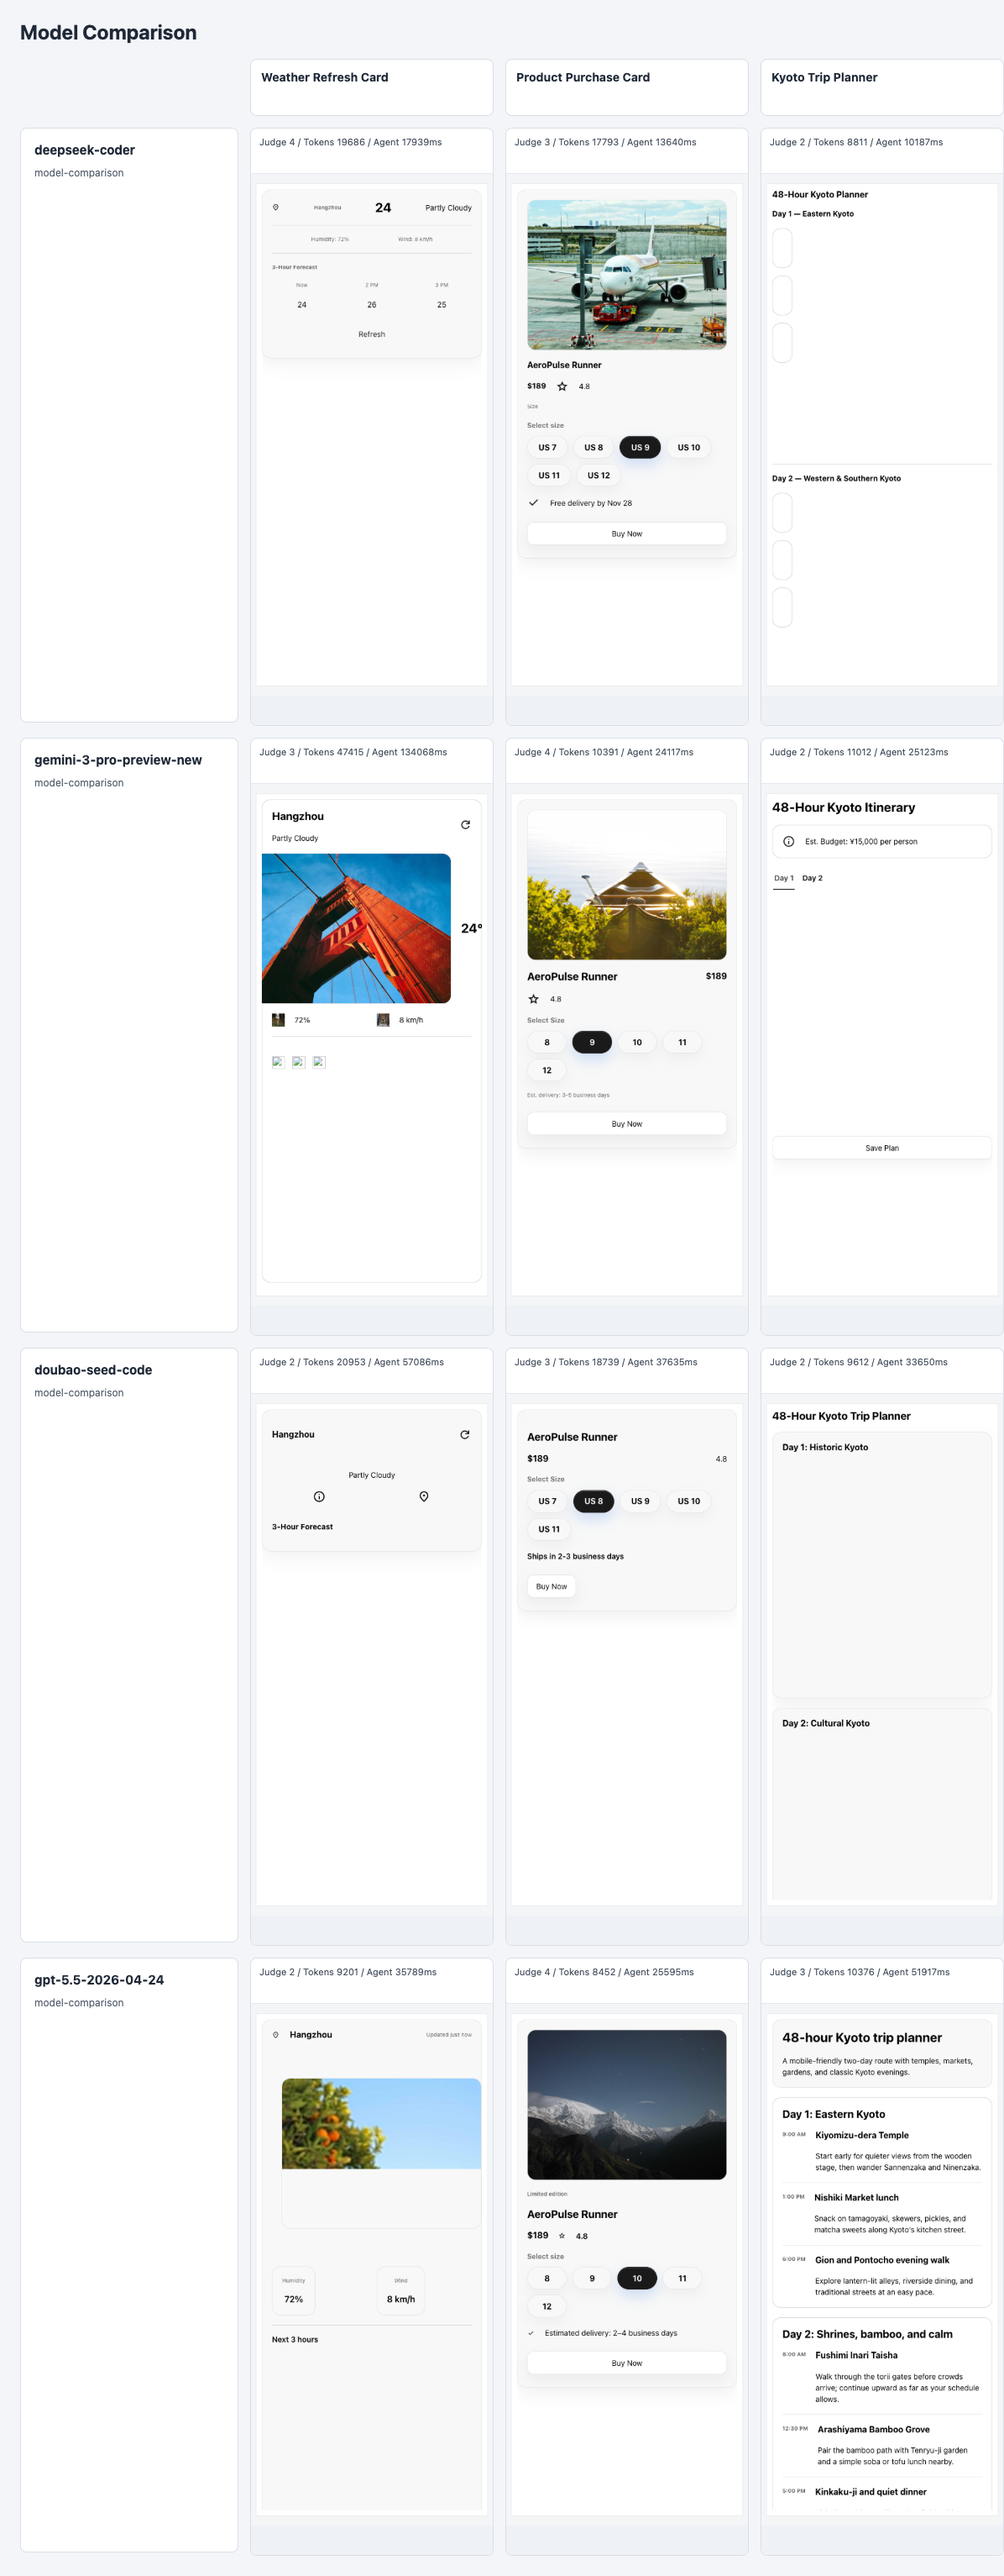
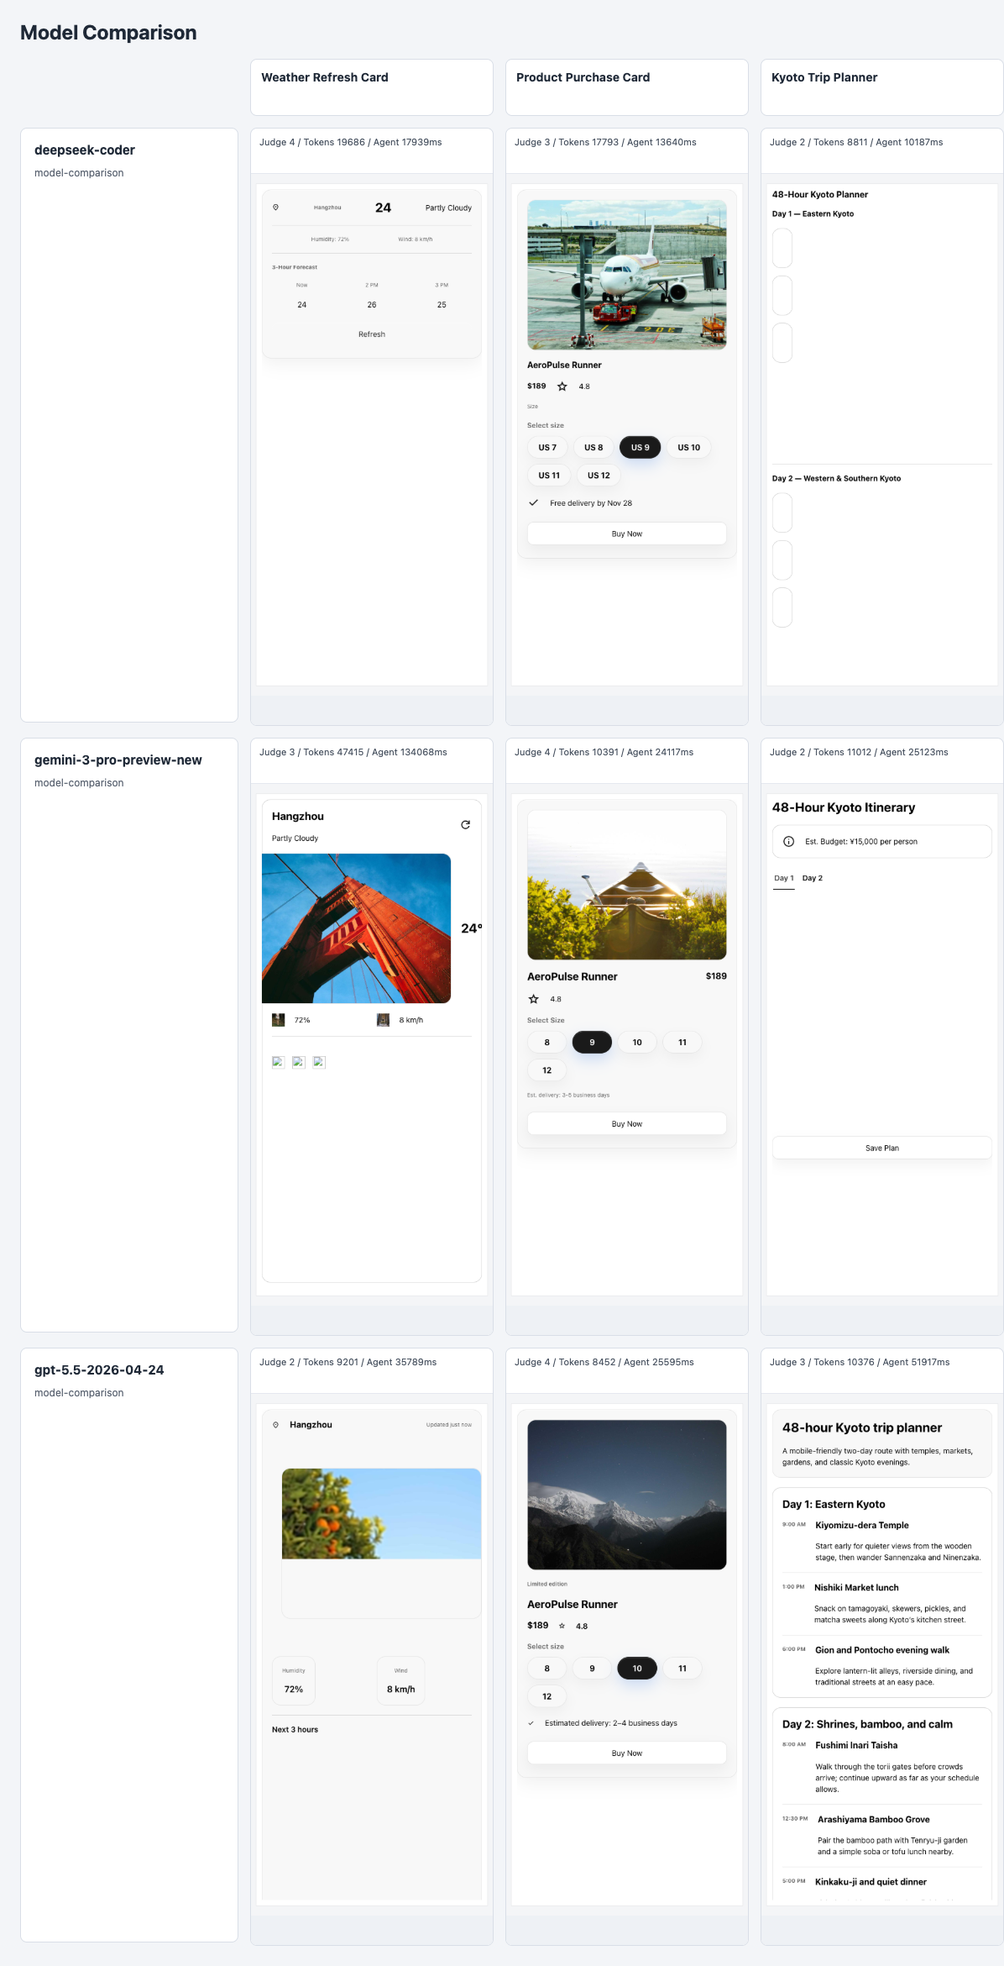
fix(genui): correct phase 1 model count

diff --git a/packages/genui/playground/src/pages/bench/BenchResultPage.tsx b/packages/genui/playground/src/pages/bench/BenchResultPage.tsx
@@ -61,7 +61,7 @@ const EXPERIMENT_LABELS = {
 const EVIDENCE = {
   models: {
     title: '模型对比结果拼图',
-    description: '4 个模型 × 3 个场景',
+    description: '3 个模型 × 3 个场景',
     src: MODEL_EVIDENCE_URL,
   },
   prompts: {

diff --git a/packages/genui/playground/src/pages/bench/phaseOne.ts b/packages/genui/playground/src/pages/bench/phaseOne.ts
@@ -128,7 +128,7 @@ export const PHASE_ONE_BENCH = {
   scope: {
     runs: 30,
     scenarios: 3,
-    models: 4,
+    models: 3,
     prompts: 3,
     catalogs: 3,
   },
